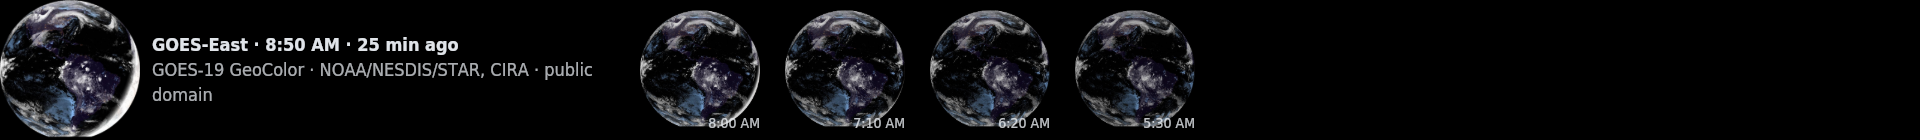
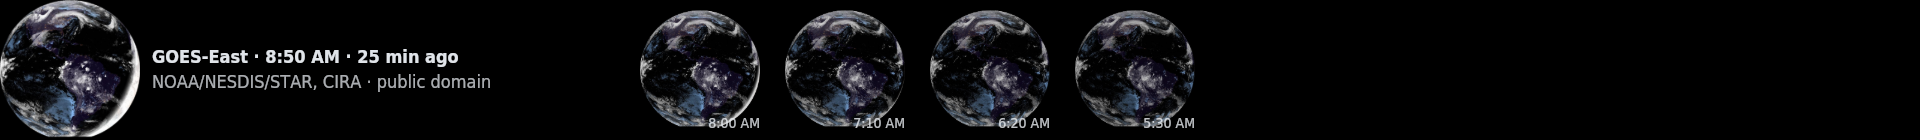
fix: show each satellite's credit word for word, in turns where it doesn't fit
The on-screen credits were shortened on small tiles ("EUMETSAT Meteosat
2026", "JMA · NOAA/NESDIS · CSU/CIRA"). Each provider now has one credit,
the wording its terms give, never shortened nor translated:

- JMA: "Source: Japan Meteorological Agency website (URL), resized and
  cropped · True Color Reproduction: JMA, NOAA/NESDIS, CSU/CIRA" (website
  terms: source with the page's URL and a note that it was edited; TCR
  terms: at least JMA, NOAA/NESDIS, CSU/CIRA).
- EUMETSAT: "Contains modified EUMETSAT Meteosat data <year> · CC BY 4.0"
  (Data Policy art. 6.3; the images are reprojected).
- NOAA: "NOAA/NESDIS/STAR, CIRA · public domain".

Where it doesn't fit at once it is wrapped and shown in turns every 20 s
(as in art), and paged over the interlude's seconds. Long strips too short
for a caption no longer get the filmstrip. A test checks every provider's
full credit is drawn at 8 sizes and 3 languages.

Changed region(s): [[0.0625, 0.2571, 0.3125, 0.7143]]

diff --git a/src/widget-earth.ts b/src/widget-earth.ts
@@ -40,19 +40,17 @@ export const PAST_PX = 200;
 export interface Caption {
   /** "GOES-East · 07:50 · 12 min ago". */
   head: string;
-  /** The agency's credit: the long form where it fits. */
+  /** The agency's credit, word for word as its terms give it. */
   credit: string;
-  creditShort: string;
   stale: boolean;
 }
 
 export function captionOf(ctx: Pick<Ctx, 't' | 'fmt' | 'now'>, e: EarthData, takenAt: number | undefined): Caption {
-  if (e.demo) return { head: `${ctx.t(e.name)} · ${ctx.t(SAMPLE_SHORT)}`, credit: ctx.t(SAMPLE), creditShort: ctx.t(SAMPLE_SHORT), stale: false };
+  if (e.demo) return { head: `${ctx.t(e.name)} · ${ctx.t(SAMPLE_SHORT)}`, credit: ctx.t(SAMPLE), stale: false };
   const when = takenAt ? `${ctx.fmt.time(takenAt)} · ${ctx.fmt.ago(takenAt, { now: ctx.now })}` : '';
   return {
     head: [ctx.t(e.name), when, e.stale && takenAt ? ctx.t(OLD) : ''].filter(Boolean).join(' · '),
-    credit: e.creditLong,
-    creditShort: e.credit,
+    credit: e.credit,
     stale: e.stale,
   };
 }
@@ -62,7 +60,7 @@ export function layoutEarth(box: Box): { disk: Box; text: Box | null; overlay: b
   const { x, y, w, h } = box;
   // A long strip: the disk, its caption, then the hours before it.
   const tw = Math.min(Math.round(h * 3.4), 540, Math.round((w - h) * 0.45));
-  if (w / h >= 2.6 && w - h - 24 - tw >= h * 0.9) {
+  if (w / h >= 2.6 && tw >= 160 && w - h - 24 - tw >= h * 0.9) {
     return { disk: { x, y, w: h, h }, text: { x: x + h + 12, y, w: tw, h }, overlay: false, film: { x: x + h + 24 + tw, y, w: w - h - 24 - tw, h } };
   }
   if (w / h >= 1.5 && w - h >= 90) return { disk: { x, y, w: h, h }, text: { x: x + h + 10, y, w: w - h - 14, h }, overlay: false };
@@ -71,17 +69,34 @@ export function layoutEarth(box: Box): { disk: Box; text: Box | null; overlay: b
   return { disk: { x: x + (w - d) / 2, y: y + (h - d) / 2, w: d, h: d }, text: null, overlay: true };
 }
 
-export function lines(g: Graphics, ctx: Pick<Ctx, 'kit' | 'theme'>, cap: Caption, w: number, n: number, size: number): { text: string; size: number; color: string; bold?: boolean }[] {
+/** How long each part of a caption that doesn't fit at once stays on screen. */
+export const TURN_MS = 20_000;
+
+export type Line = { text: string; size: number; color: string; bold?: boolean };
+
+/**
+ * The caption in `n` lines of `w`: all of it when it fits; else in turns
+ * (`phase`, a count of `TURN_MS`), the head, then the credit a page of `n`
+ * lines at a time. The credit is never shortened nor translated: the
+ * agencies' terms give its wording.
+ */
+export function captionPages(g: Graphics, ctx: Pick<Ctx, 'kit' | 'theme'>, cap: Caption, w: number, n: number, size: number): Line[][] {
   const { kit, theme } = ctx;
   const body = { size, family: theme.fonts.sans };
   const bold = { size, family: theme.fonts.sansBold };
-  // The credit is never cut: the agencies' terms ask for it on screen. The long form where it fits whole, else the short one.
-  const room = Math.max(1, n - 1);
-  const long = kit.wrapLines(g, cap.credit, w, 12, body);
-  const credit = n >= 3 && long.length <= n - 2 ? long : kit.wrapLines(g, cap.creditShort, w, n >= 2 ? room : 1, body);
-  const head = kit.wrapLines(g, cap.head, w, Math.min(2, Math.max(0, n - credit.length)), bold);
   const headColor = cap.stale ? theme.colors.warn : 'rgba(236,240,245,0.95)';
-  return [...head.map((text) => ({ text, size, color: headColor, bold: true })), ...credit.map((text) => ({ text, size, color: 'rgba(236,240,245,0.72)' }))];
+  const credit = kit.wrapLines(g, cap.credit, w, 40, body).map((text) => ({ text, size, color: 'rgba(236,240,245,0.72)' }));
+  const head = (max: number) => kit.wrapLines(g, cap.head, w, max, bold).map((text) => ({ text, size, color: headColor, bold: true }));
+  if (credit.length < n) return [[...head(Math.min(2, n - credit.length)), ...credit]];
+  if (credit.length === n) return [credit, head(Math.min(2, n))];
+  const pages: Line[][] = [head(Math.min(2, n))];
+  for (let i = 0; i < credit.length; i += n) pages.push(credit.slice(i, i + n));
+  return pages;
+}
+
+export function lines(g: Graphics, ctx: Pick<Ctx, 'kit' | 'theme'>, cap: Caption, w: number, n: number, size: number, phase = 0): Line[] {
+  const pages = captionPages(g, ctx, cap, w, n, size);
+  return pages[phase % pages.length]!;
 }
 
 /** Earlier images in a row, newest first, each with its time. */
@@ -130,7 +145,7 @@ function render(g: Graphics, ctx: Ctx): void {
     const size = Math.round(clamp(Math.min(t.h / 4.2, t.w / 11, 18), MIN_PX, 18));
     const lineH = Math.round(size * 1.4);
     const n = Math.max(1, Math.min(6, Math.floor(t.h / lineH)));
-    const ls = lines(g, ctx, cap, t.w, n, size);
+    const ls = lines(g, ctx, cap, t.w, n, size, Math.floor(now / TURN_MS));
     let y = t.y + (lay.disk.y === t.y ? (t.h - ls.length * lineH) / 2 : 2) + size;
     for (const l of ls) {
       kit.drawTracked(g, l.text, t.x, y, { size: l.size, family: l.bold ? theme.fonts.sansBold : theme.fonts.sans, color: l.color });
@@ -143,7 +158,7 @@ function render(g: Graphics, ctx: Ctx): void {
   const lineH = Math.round(size * 1.35);
   const n = box.h >= 240 ? 3 : box.h >= 120 ? 2 : 1;
   const pad = Math.round(size * 0.6);
-  const ls = lines(g, ctx, cap, box.w - pad * 2, n, size);
+  const ls = lines(g, ctx, cap, box.w - pad * 2, n, size, Math.floor(now / TURN_MS));
   const blockH = ls.length * lineH + pad;
   const shade = g.createLinearGradient(0, box.y + box.h - blockH * 1.5, 0, box.y + box.h);
   shade.addColorStop(0, 'rgba(0,0,0,0)');
@@ -186,7 +201,8 @@ export const earthWidget = defineWidget<ObjectField<{}>, Shown | undefined>({
     const past = await Promise.all(pastFrames(e.frames, 8).map((p) => loadDisk(ctx.canvas, p, e.subLon, PAST_PX)));
     return { latest, past };
   },
-  redraw: 'minute',
+  // The caption takes turns where it doesn't fit at once.
+  redraw: { everyMs: TURN_MS },
   render(g, ctx) {
     const { box } = ctx;
     g.save();

diff --git a/src/widgets.test.ts b/src/widgets.test.ts
@@ -11,7 +11,7 @@ import type { EarthData } from './earth.ts';
 import { PROVIDERS } from './satellites/index.ts';
 import { EARTH, TEAM, teamDemo } from './sources.ts';
 import { resolveTeam } from './team.ts';
-import { earthWidget, layoutEarth, pastFrames, type Shown } from './widget-earth.ts';
+import { earthWidget, layoutEarth, pastFrames, TURN_MS, type Shown } from './widget-earth.ts';
 import { layoutMap, mapWidget } from './widget-map.ts';
 import { teamWidget } from './widget-team.ts';
 
@@ -52,12 +52,12 @@ function paint(w: WidgetDefinition<any, any>, size: { w: number; h: number }, lo
 }
 
 /** Paints with every text's size noted. */
-function texts(w: WidgetDefinition<any, any>, size: { w: number; h: number }, locale: string, o: { options?: Record<string, unknown>; data?: unknown; sources?: Record<string, unknown>; theme?: string } = {}) {
+function texts(w: WidgetDefinition<any, any>, size: { w: number; h: number }, locale: string, o: { options?: Record<string, unknown>; data?: unknown; sources?: Record<string, unknown>; theme?: string; now?: number } = {}) {
   const out: { text: string; size: number }[] = [];
   const spy = { ...kit, drawTracked: (g: never, text: string, x: number, y: number, f: { size: number }) => (out.push({ text, size: f.size }), kit.drawTracked(g, text, x, y, f as never)) };
   const g = createCanvas(size.w, size.h).getContext('2d');
   const theme = themeById(o.theme ?? 'midnight');
-  w.render(g as never, { ...createBaseContext({ now: T, locale }), options: { ...(w.options ? defaultsOf(w.options as never) : {}), ...(o.options ?? {}) }, data: o.data, sources: o.sources ?? {}, working: true, box: { x: 0, y: 0, w: size.w, h: size.h }, theme, fonts: theme.fonts, kit: spy, canvas: { createCanvas, loadImage }, preview: false } as never);
+  w.render(g as never, { ...createBaseContext({ now: o.now ?? T, locale }), options: { ...(w.options ? defaultsOf(w.options as never) : {}), ...(o.options ?? {}) }, data: o.data, sources: o.sources ?? {}, working: true, box: { x: 0, y: 0, w: size.w, h: size.h }, theme, fonts: theme.fonts, kit: spy, canvas: { createCanvas, loadImage }, preview: false } as never);
   return out;
 }
 
@@ -76,7 +76,7 @@ function fakeShown(): Shown {
 }
 const earthOf = (sat: keyof typeof PROVIDERS, stale = false): EarthData => {
   const p = PROVIDERS[sat];
-  return { sat, name: p.name, craft: p.craft, subLon: p.subLon, credit: p.credit(2026), creditLong: p.creditLong(2026), frames: [{ file: '/x.jpg', takenAt: T - 25 * 60_000, px: 678, kind: 'disk' }], stale, error: null };
+  return { sat, name: p.name, craft: p.craft, subLon: p.subLon, credit: p.credit(2026), frames: [{ file: '/x.jpg', takenAt: T - 25 * 60_000, px: 678, kind: 'disk' }], stale, error: null };
 };
 
 const team = teamDemo();
@@ -113,16 +113,26 @@ test('no text under 11 px, anywhere, in any theme', () => {
         }
 });
 
-test('the satellite’s credit is on screen at every size, whole', () => {
+test('each satellite’s full credit, word for word, is drawn at every size and language: at once, or in turns', () => {
   for (const sat of ['goes-east', 'goes-west', 'meteosat', 'meteosat-iodc', 'himawari'] as const)
     for (const size of SIZES)
       for (const locale of LOCALES) {
-        const p = PROVIDERS[sat];
-        const drawn = texts(earthWidget, size, locale, { data: fakeShown(), sources: { [EARTH]: earthOf(sat) } }).map((x) => x.text);
-        // Either form, possibly wrapped over lines, whole: no ellipsis in it.
+        const credit = PROVIDERS[sat].credit(2026);
+        // Every turn of the caption, in order, over a full cycle.
+        const drawn: string[] = [];
+        let first = '';
+        for (let k = 0; k < 40; k++) {
+          const page = texts(earthWidget, size, locale, { data: fakeShown(), sources: { [EARTH]: earthOf(sat) }, now: T + k * TURN_MS }).map((x) => x.text)
+            // Leave out the times under the earlier images (on long strips): they come between the credit's lines.
+            .filter((t) => !/^(上午|下午)?\s?\d{1,2}:\d{2}( [AP]M)?$/.test(t));
+          const key = page.join('|');
+          if (k > 0 && key === first) break;
+          if (k === 0) first = key;
+          drawn.push(...page);
+        }
         const flat = drawn.join('').replace(/\s/g, '');
-        const has = (credit: string) => flat.includes(credit.replace(/\s/g, ''));
-        assert.ok(has(p.credit(2026)) || has(p.creditLong(2026)), `${sat} ${size.w}x${size.h} ${locale}: ${drawn.join(' | ')}`);
+        assert.ok(flat.includes(credit.replace(/\s/g, '')), `${sat} ${size.w}x${size.h} ${locale}: ${drawn.join(' | ')}`);
+        assert.ok(!drawn.some((t) => t.includes('…') && credit.includes(t.replace('…', '').trim().split(' ')[0] ?? '')), `${sat} ${size.w}x${size.h}: credit cut`);
       }
 });
 

diff --git a/src/satellites/eumetsat.ts b/src/satellites/eumetsat.ts
@@ -58,15 +58,15 @@ export function getMapUrl(layer: string, subLon: number, time: number, side: num
 
 export const sideFor = (px: number): number => Math.max(EUM_MIN, Math.min(EUM_MAX, Math.round((px * OVERSAMPLE) / 16) * 16));
 
-function eumetsat(id: 'meteosat' | 'meteosat-iodc', craft: string, subLon: number, layer: string, name: ReturnType<typeof L>, product: string): Provider {
+function eumetsat(id: 'meteosat' | 'meteosat-iodc', craft: string, subLon: number, layer: string, name: ReturnType<typeof L>): Provider {
   return {
     id,
     name,
     craft,
     subLon,
     hosts: [EUM_HOST],
-    credit: (year) => `EUMETSAT Meteosat ${year}`,
-    creditLong: (year) => `${craft} ${product} · Contains modified EUMETSAT Meteosat data ${year} · CC BY 4.0`,
+    // EUMETSAT's attribution, "[Contains modified] EUMETSAT [Meteosat] [data/product] [year]": these are reprojected, so modified; and the licence, as CC BY asks.
+    credit: (year) => `Contains modified EUMETSAT Meteosat data ${year} · CC BY 4.0`,
     async plan(net, px, o): Promise<Shot> {
       const time = parseWmsTime(await net.text(capsUrl(layer), o.signal ? { signal: o.signal } : {}));
       if (time === null) throw new Error(`no time for ${layer} on EUMETView`);
@@ -77,12 +77,11 @@ function eumetsat(id: 'meteosat' | 'meteosat-iodc', craft: string, subLon: numbe
   };
 }
 
-export const meteosat = eumetsat('meteosat', 'Meteosat-12', 0, 'mtg_fd:rgb_geocolour', L('Meteosat', 'Meteosat', 'Meteosat', 'Meteosat 气象卫星', 'Meteosat 氣象衛星'), 'GeoColour');
+export const meteosat = eumetsat('meteosat', 'Meteosat-12', 0, 'mtg_fd:rgb_geocolour', L('Meteosat', 'Meteosat', 'Meteosat', 'Meteosat 气象卫星', 'Meteosat 氣象衛星'));
 export const meteosatIodc = eumetsat(
   'meteosat-iodc',
   'Meteosat-9',
   45.5,
   'msg_iodc:rgb_naturalenhncd',
   L('Meteosat (Indian Ocean)', 'Meteosat (océano Índico)', 'Meteosat (Indischer Ozean)', 'Meteosat（印度洋）', 'Meteosat（印度洋）'),
-  'Natural Colour Enhanced',
 );

diff --git a/src/interlude.ts b/src/interlude.ts
@@ -98,7 +98,12 @@ export const dayInterlude = defineInterlude({
       for (const f of earth.frames) disks.push(await loadDisk(ctx.canvas, f, earth.subLon, d, { cache: false }));
       const size = Math.min(W, H);
       const x0 = (W - size) / 2, y0 = (H - size) / 2;
-      const credit = kit.truncate(ctx.canvas.createCanvas(1, 1).getContext('2d') as never, earth.credit, W - 16, { size: MIN_PX, family: theme.fonts.sans });
+      // The credit whole, word for word: wrapped, and in turns over the seconds if it takes more than three lines.
+      const creditFont = { size: MIN_PX, family: theme.fonts.sans, color: 'rgba(236,240,245,0.8)' };
+      const creditLines = kit.wrapLines(ctx.canvas.createCanvas(1, 1).getContext('2d') as never, earth.credit, W - 16, 40, creditFont);
+      const per = Math.max(1, Math.min(3, Math.floor((H * 0.3) / (MIN_PX * 1.4)), creditLines.length));
+      const creditPages: string[][] = [];
+      for (let k = 0; k < creditLines.length; k += per) creditPages.push(creditLines.slice(k, k + per));
       return {
         frames,
         draw(g: Graphics, i: number) {
@@ -116,7 +121,13 @@ export const dayInterlude = defineInterlude({
             g.globalAlpha = 1;
           }
           clock(g, disks[k]!.takenAt, 8, 8, ctx.t(earth.name));
-          kit.drawTracked(g, credit, 8, H - 8, { size: MIN_PX, family: theme.fonts.sans, color: 'rgba(236,240,245,0.75)' });
+          const page = creditPages[Math.min(creditPages.length - 1, Math.floor((i / frames) * creditPages.length))] ?? [];
+          const lh = Math.round(MIN_PX * 1.4);
+          if (page.length) {
+            g.fillStyle = 'rgba(0,0,0,0.55)';
+            g.fillRect(0, H - page.length * lh - 10, W, page.length * lh + 10);
+          }
+          page.forEach((l, j) => kit.drawTracked(g, l, 8, H - 8 - (page.length - 1 - j) * lh, creditFont));
         },
       };
     }

diff --git a/src/satellites/satellites.test.ts b/src/satellites/satellites.test.ts
@@ -63,13 +63,19 @@ test('every provider: hosts, a credit and a place', () => {
     assert.equal(p.id, id);
     assert.ok(p.hosts.length && p.hosts.every((h) => /^[a-z0-9.-]+$/.test(h)));
     assert.ok(p.credit(2026).length > 3);
-    assert.ok(p.creditLong(2026).length >= p.credit(2026).length);
     assert.ok(Math.abs(p.subLon) <= 180);
   }
-  assert.ok(himawari.creditLong(2026).includes('Japan Meteorological Agency'));
-  assert.ok(himawari.credit(2026).includes('CSU/CIRA'));
-  assert.ok(meteosat.creditLong(2026).includes('Contains modified EUMETSAT Meteosat data 2026'));
-  assert.ok(goesEast.creditLong(2026).includes('public domain'));
+});
+
+test('each credit word for word as the terms give it', () => {
+  // JMA website terms: "Source: Japan Meteorological Agency website (URL of relevant page)", saying it was edited; TCR terms: JMA, NOAA/NESDIS, CSU/CIRA.
+  assert.equal(himawari.credit(2026), 'Source: Japan Meteorological Agency website (https://www.data.jma.go.jp/mscweb/data/himawari/), resized and cropped · True Color Reproduction: JMA, NOAA/NESDIS, CSU/CIRA');
+  // EUMETSAT Data Policy, art. 6.3: "[Contains modified] EUMETSAT [Meteosat] [data/product] [Year]"; and the CC BY 4.0 licence.
+  assert.equal(meteosat.credit(2026), 'Contains modified EUMETSAT Meteosat data 2026 · CC BY 4.0');
+  assert.equal(meteosatIodc.credit(2027), 'Contains modified EUMETSAT Meteosat data 2027 · CC BY 4.0');
+  // Public domain: no wording required; credited all the same.
+  assert.equal(goesEast.credit(2026), 'NOAA/NESDIS/STAR, CIRA · public domain');
+  assert.equal(goesWest.credit(2026), goesEast.credit(2026));
 });
 
 test('GOES: a fixed address per size, the smallest that is big enough, its caption bar hidden', async () => {

diff --git a/src/satellites/jma.ts b/src/satellites/jma.ts
@@ -16,6 +16,15 @@ import type { Provider, Shot } from './types.ts';
 export const JMA_HOST = 'www.data.jma.go.jp';
 export const JMA_PAGE = `https://${JMA_HOST}/mscweb/data/himawari/sat_img.php?area=fd_`;
 export const JMA_PX = 601;
+/** The page the images come from, as the JMA website's terms cite it. */
+export const JMA_SOURCE_URL = `https://${JMA_HOST}/mscweb/data/himawari/`;
+/**
+ * The JMA website's terms: "Source: Japan Meteorological Agency website (URL
+ * of relevant page)", and, for content edited (these are resized and cut to
+ * the disk), a statement that it was edited. The TCR terms: at least "JMA",
+ * "NOAA/NESDIS" and "CSU/CIRA" (names or abbreviations).
+ */
+export const JMA_CREDIT = `Source: Japan Meteorological Agency website (${JMA_SOURCE_URL}), resized and cropped · True Color Reproduction: JMA, NOAA/NESDIS, CSU/CIRA`;
 /** The Earth fills 577 of the image's 601 px. */
 export const JMA_SCALE = 577 / 601;
 const MONTHS = ['january', 'february', 'march', 'april', 'may', 'june', 'july', 'august', 'september', 'october', 'november', 'december'];
@@ -46,8 +55,7 @@ export const himawari: Provider = {
   craft: 'Himawari-9',
   subLon: 140.7,
   hosts: [JMA_HOST],
-  credit: () => 'JMA · NOAA/NESDIS · CSU/CIRA',
-  creditLong: () => 'Himawari-9 True Color Reproduction · Source: Japan Meteorological Agency website · JMA, NOAA/NESDIS, CSU/CIRA',
+  credit: () => JMA_CREDIT,
   async plan(net, _px, o): Promise<Shot> {
     const latest = parseJmaLatest(await net.text(JMA_PAGE, o.signal ? { signal: o.signal } : {}));
     if (!latest) throw new Error('no image listed on the JMA page');

diff --git a/src/earth.ts b/src/earth.ts
@@ -34,8 +34,8 @@ export interface EarthData {
   name: Localized;
   craft: string;
   subLon: number;
+  /** The credit its terms ask for, word for word. */
   credit: string;
-  creditLong: string;
   /** Oldest first; the last is the one to show. Empty before the first image. */
   frames: EarthFrame[];
   stale: boolean;
@@ -61,7 +61,6 @@ function dataOf(p: Provider, s: State, store: Store, now: number): EarthData {
     craft: p.craft,
     subLon: p.subLon,
     credit: p.credit(year),
-    creditLong: p.creditLong(year),
     frames: s.frames.map((f) => ({ file: store.path(f.file), takenAt: f.takenAt, px: f.px, kind: f.kind, ...(f.bbox ? { bbox: f.bbox } : {}), ...(f.frame ? { frame: f.frame } : {}) })),
     stale: !last || now - last.takenAt > STALE_MS,
     error: s.error,

diff --git a/src/interlude.test.ts b/src/interlude.test.ts
@@ -30,7 +30,7 @@ function frames(dir: string, n: number): EarthData {
     writeFileSync(file, c.toBuffer('image/jpeg'));
     return { file, takenAt: T - (n - k) * 600_000, px: 200, kind: 'disk' as const };
   });
-  return { sat: 'goes-east', name: p.name, craft: p.craft, subLon: p.subLon, credit: p.credit(2026), creditLong: p.creditLong(2026), frames: list, stale: false, error: null };
+  return { sat: 'goes-east', name: p.name, craft: p.craft, subLon: p.subLon, credit: p.credit(2026), frames: list, stale: false, error: null };
 }
 
 const lit = (g: ReturnType<ReturnType<typeof createCanvas>['getContext']>, w: number, h: number) => {

diff --git a/src/satellites/types.ts b/src/satellites/types.ts
@@ -28,10 +28,11 @@ export interface Provider {
   subLon: number;
   /** Hosts it contacts. */
   hosts: string[];
-  /** The credit always on screen, short. */
+  /**
+   * The credit its terms ask for, word for word and in their language: always
+   * drawn whole (wrapped, and in turns on small tiles), never shortened.
+   */
   credit: (year: number) => string;
-  /** The full credit, where there is room. */
-  creditLong: (year: number) => string;
   /** The latest image at about `px` across. */
   plan: (net: Net, px: number, o: { now: number; signal?: AbortSignal }) => Promise<Shot>;
 }

diff --git a/src/satellites/goes.ts b/src/satellites/goes.ts
@@ -31,8 +31,8 @@ function goes(id: 'goes-east' | 'goes-west', craft: string, subLon: number, name
     craft,
     subLon,
     hosts: [GOES_HOST],
-    credit: () => 'NOAA/NESDIS/STAR · CIRA',
-    creditLong: () => `${craft} GeoColor · NOAA/NESDIS/STAR, CIRA · public domain`,
+    // Public domain: no wording is required; NOAA and CIRA are credited all the same.
+    credit: () => 'NOAA/NESDIS/STAR, CIRA · public domain',
     // The address is fixed; when it was taken is read from the file (see `goesTakenAt`).
     async plan(_net, px): Promise<Shot> {
       const s = goesSize(px);

diff --git a/src/earth.test.ts b/src/earth.test.ts
@@ -21,7 +21,6 @@ function world(o: { lastModified?: boolean; fixedUrl?: boolean } = {}) {
     subLon: 140.7,
     hosts: ['example.org'],
     credit: () => 'Credit',
-    creditLong: () => 'Credit, long',
     async plan(_net, px): Promise<Shot> {
       st.plans++;
       if (st.down) throw new Error('HTTP 503');

diff --git a/src/demo.ts b/src/demo.ts
@@ -12,7 +12,6 @@ export const demoEarth = (_now: number): EarthData => ({
   craft: meteosat.craft,
   subLon: meteosat.subLon,
   credit: 'Kiosko',
-  creditLong: 'Kiosko',
   frames: [],
   stale: false,
   error: null,
